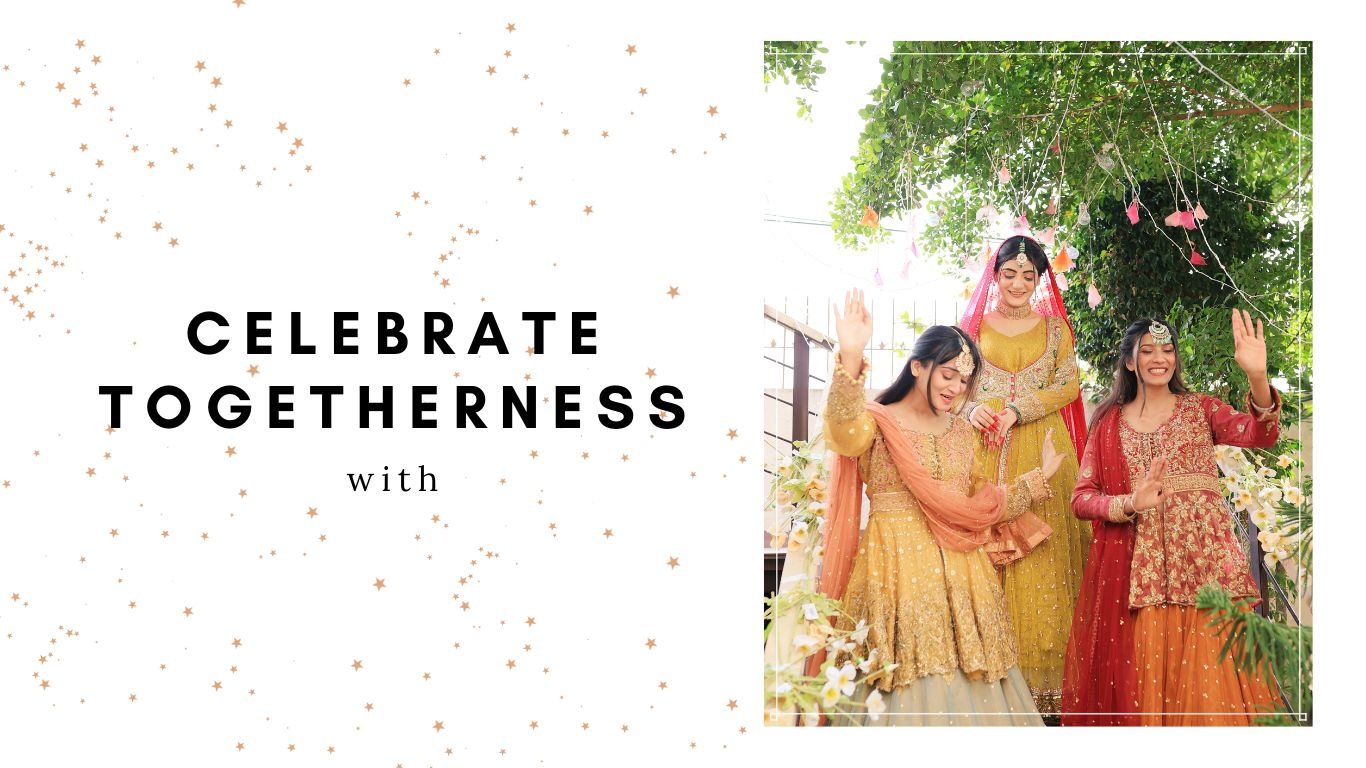
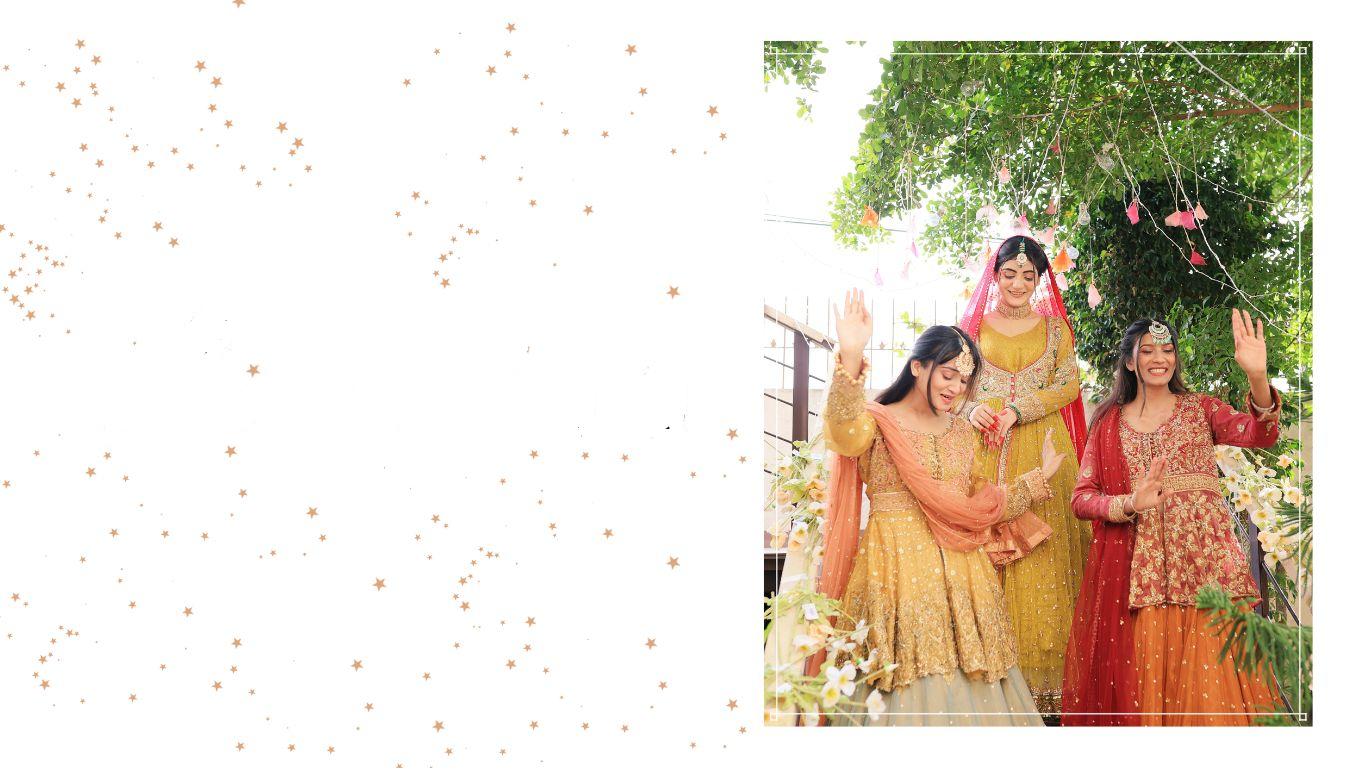
update

Changed region(s): [[0.0615, 0.5, 0.5227, 0.5625], [0.123, 0.4062, 0.4612, 0.4688], [0.246, 0.5938, 0.3075, 0.6562]]

diff --git a/index.html b/index.html
@@ -650,6 +650,24 @@
 
         <div class="slider-container has-scrollbar">
 
+
+          <div class="slider-item">
+
+            <img src="./assets/images/banner-1.jpg" alt="women's latest fashion sale" class="banner-img">
+
+            <div class="banner-content">
+
+              <p class="banner-subtitle"></p>
+
+              <h2 class="banner-title" style="text-transform: capitalize;">Pakistan's first Clothing & Sports rental service</h2>
+
+              <p class="banner-text">
+              </p>
+
+            </div>
+
+          </div>
+
           <div class="slider-item">
 
             <img src="./assets/images/banner-3.jpg" alt="new fashion summer sale" class="banner-img">
@@ -658,35 +676,11 @@
 
               <p class="banner-subtitle"></p>
 
-              <h2 class="banner-title"></h2>
+              <h2 class="banner-title">Let's celebrate togetherness <br> with <br> Fadi-Rentals</h2>
 
               <p class="banner-text">
                 
               </p>
-              <br></br>
-              <br></br>
-              <br></br>
-              <h1>Fadi-Rentals</h1>
-
-            </div>
-
-          </div>
-
-          <div class="slider-item">
-
-            <img src="./assets/images/banner-1.jpg" alt="women's latest fashion sale" class="banner-img">
-
-            <div class="banner-content">
-
-              <p class="banner-subtitle">Trending item</p>
-
-              <h2 class="banner-title">Sports Item sale</h2>
-
-              <p class="banner-text">
-                starting at &dollar; <b>20</b>.00
-              </p>
-
-              <a href="#" class="banner-btn">Shop now</a>
 
             </div>
 
@@ -698,15 +692,14 @@
 
             <div class="banner-content">
 
-              <p class="banner-subtitle">Trending accessories</p>
+              <p class="banner-subtitle"></p>
 
-              <h2 class="banner-title">Modern sunglasses</h2>
+              <h2 class="banner-title">Forget the rules if you like it</h2>
 
               <p class="banner-text">
-                starting at &dollar; <b>15</b>.00
               </p>
 
-              <a href="#" class="banner-btn">Shop now</a>
+              <a href="#" class="banner-btn" style="font-size: large;">Rent it</a>
 
             </div>
 
